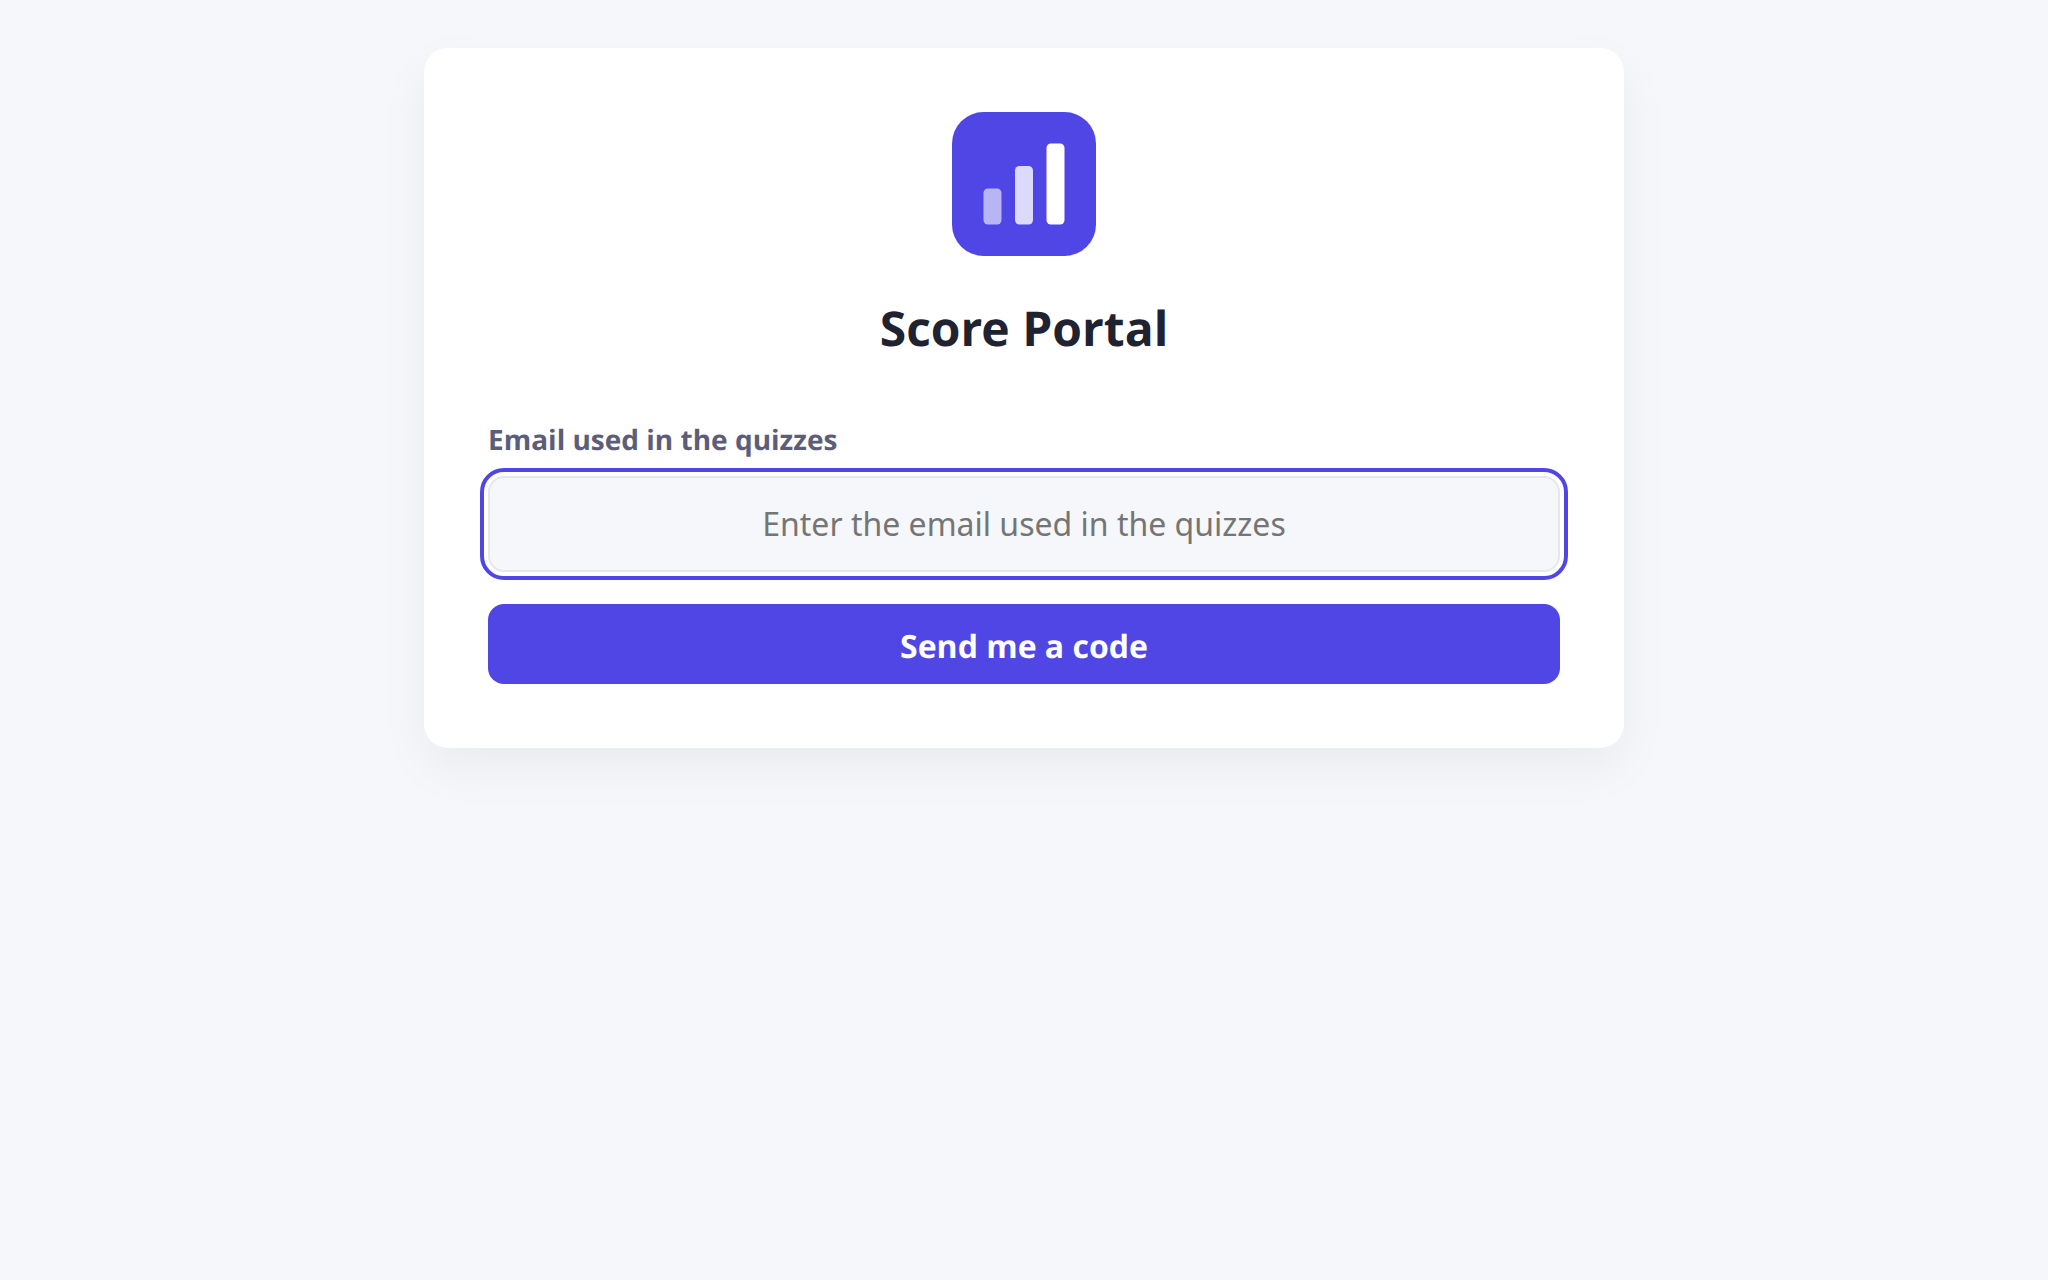
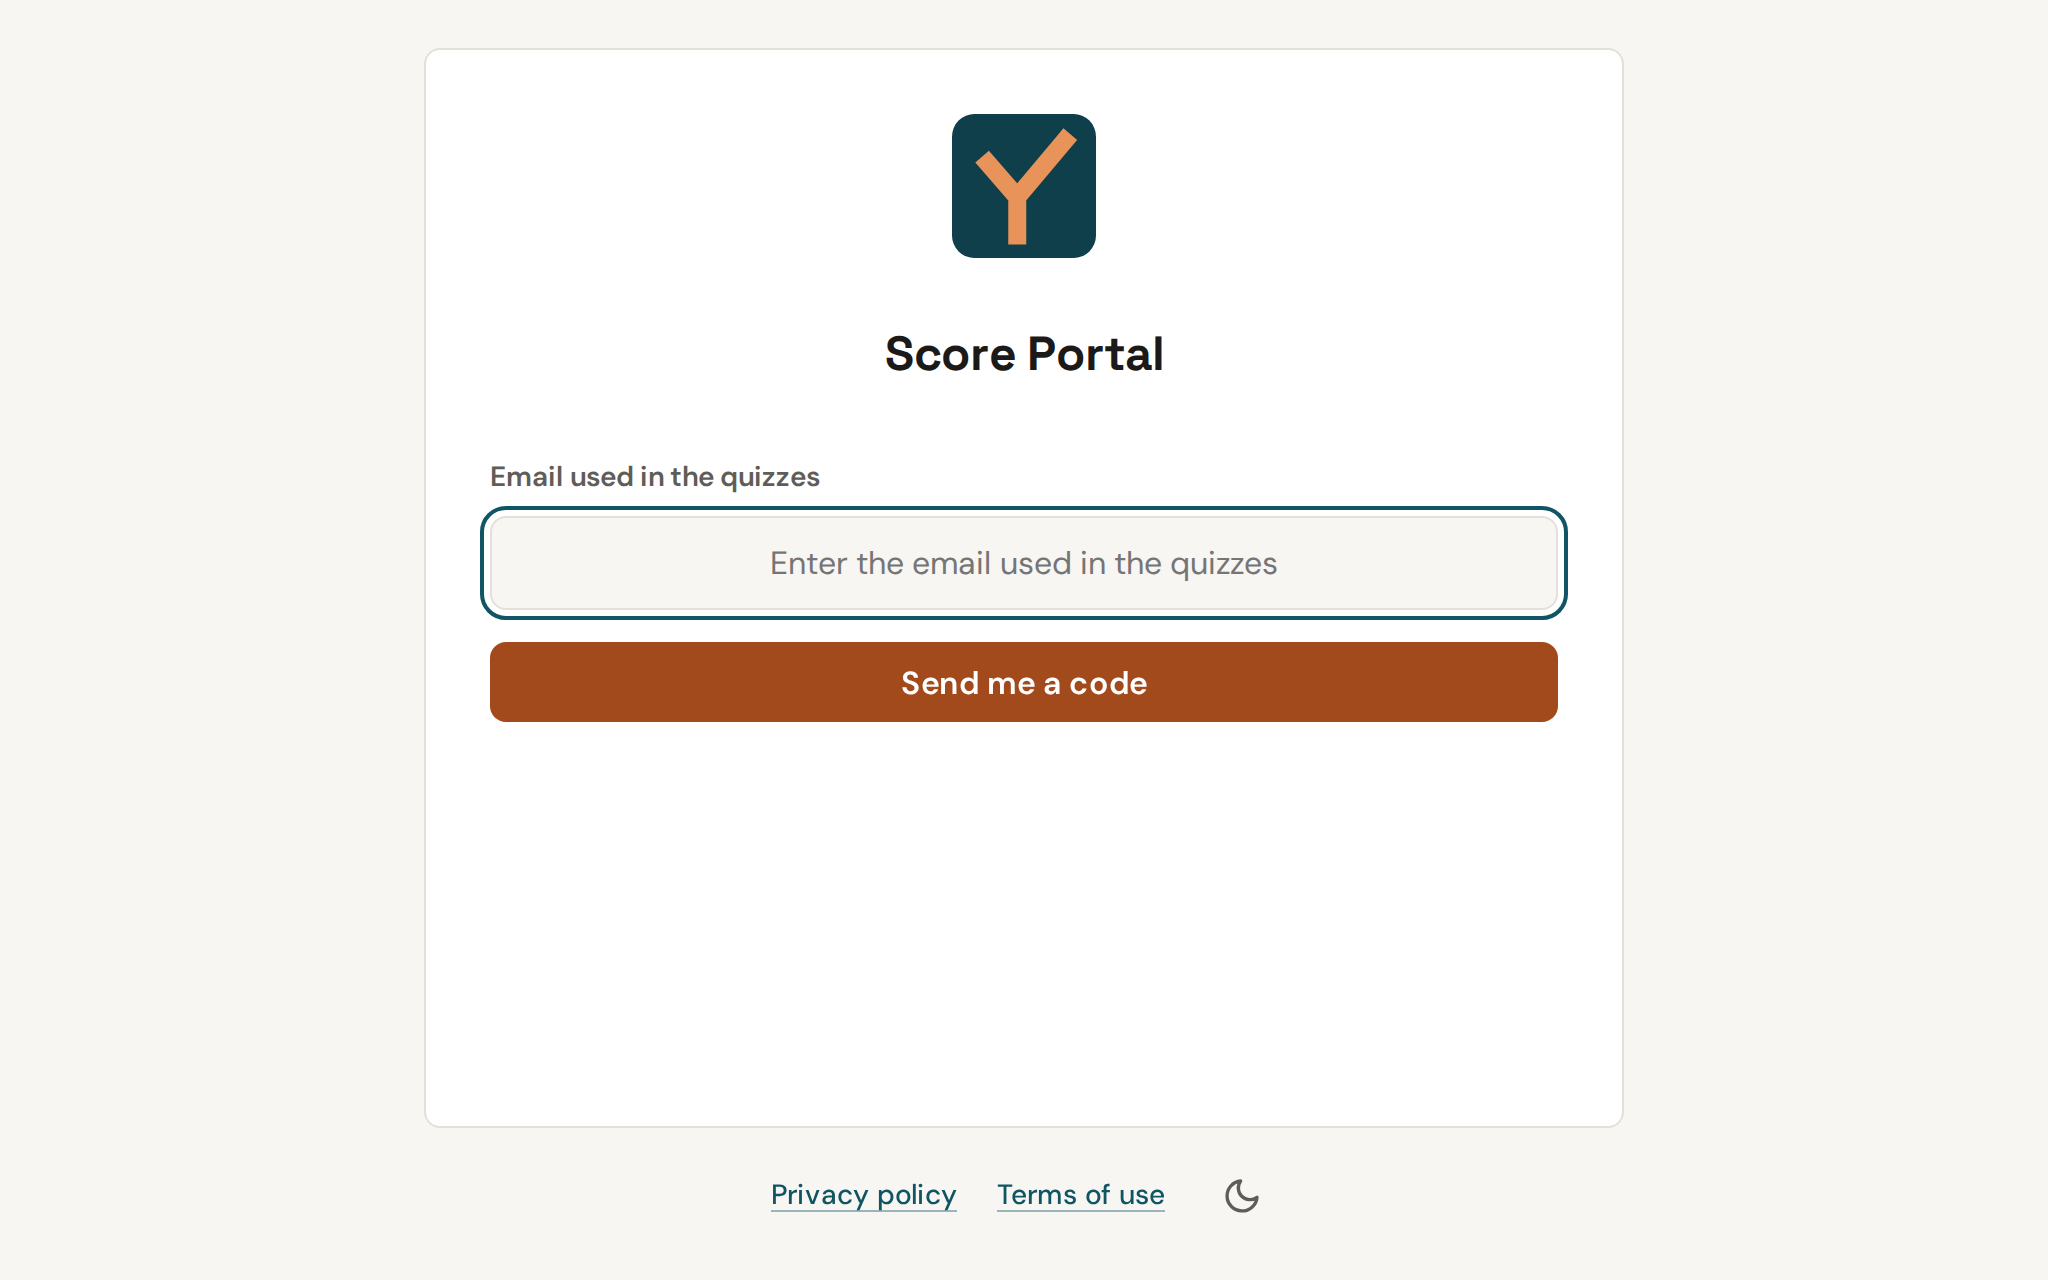
docs(readme): regenerate screenshots with Playwright

diff --git a/README.md b/README.md
@@ -88,7 +88,7 @@ is not removed by `clearDemoData`. Alternatively, test with the vitest suite.
 
 ## Screenshots
 
-Captured with sample data.
+Generated from fixture data by `npm run screenshots`.
 
 | Sign-in                                        | Results                                        |
 | ---------------------------------------------- | ---------------------------------------------- |
